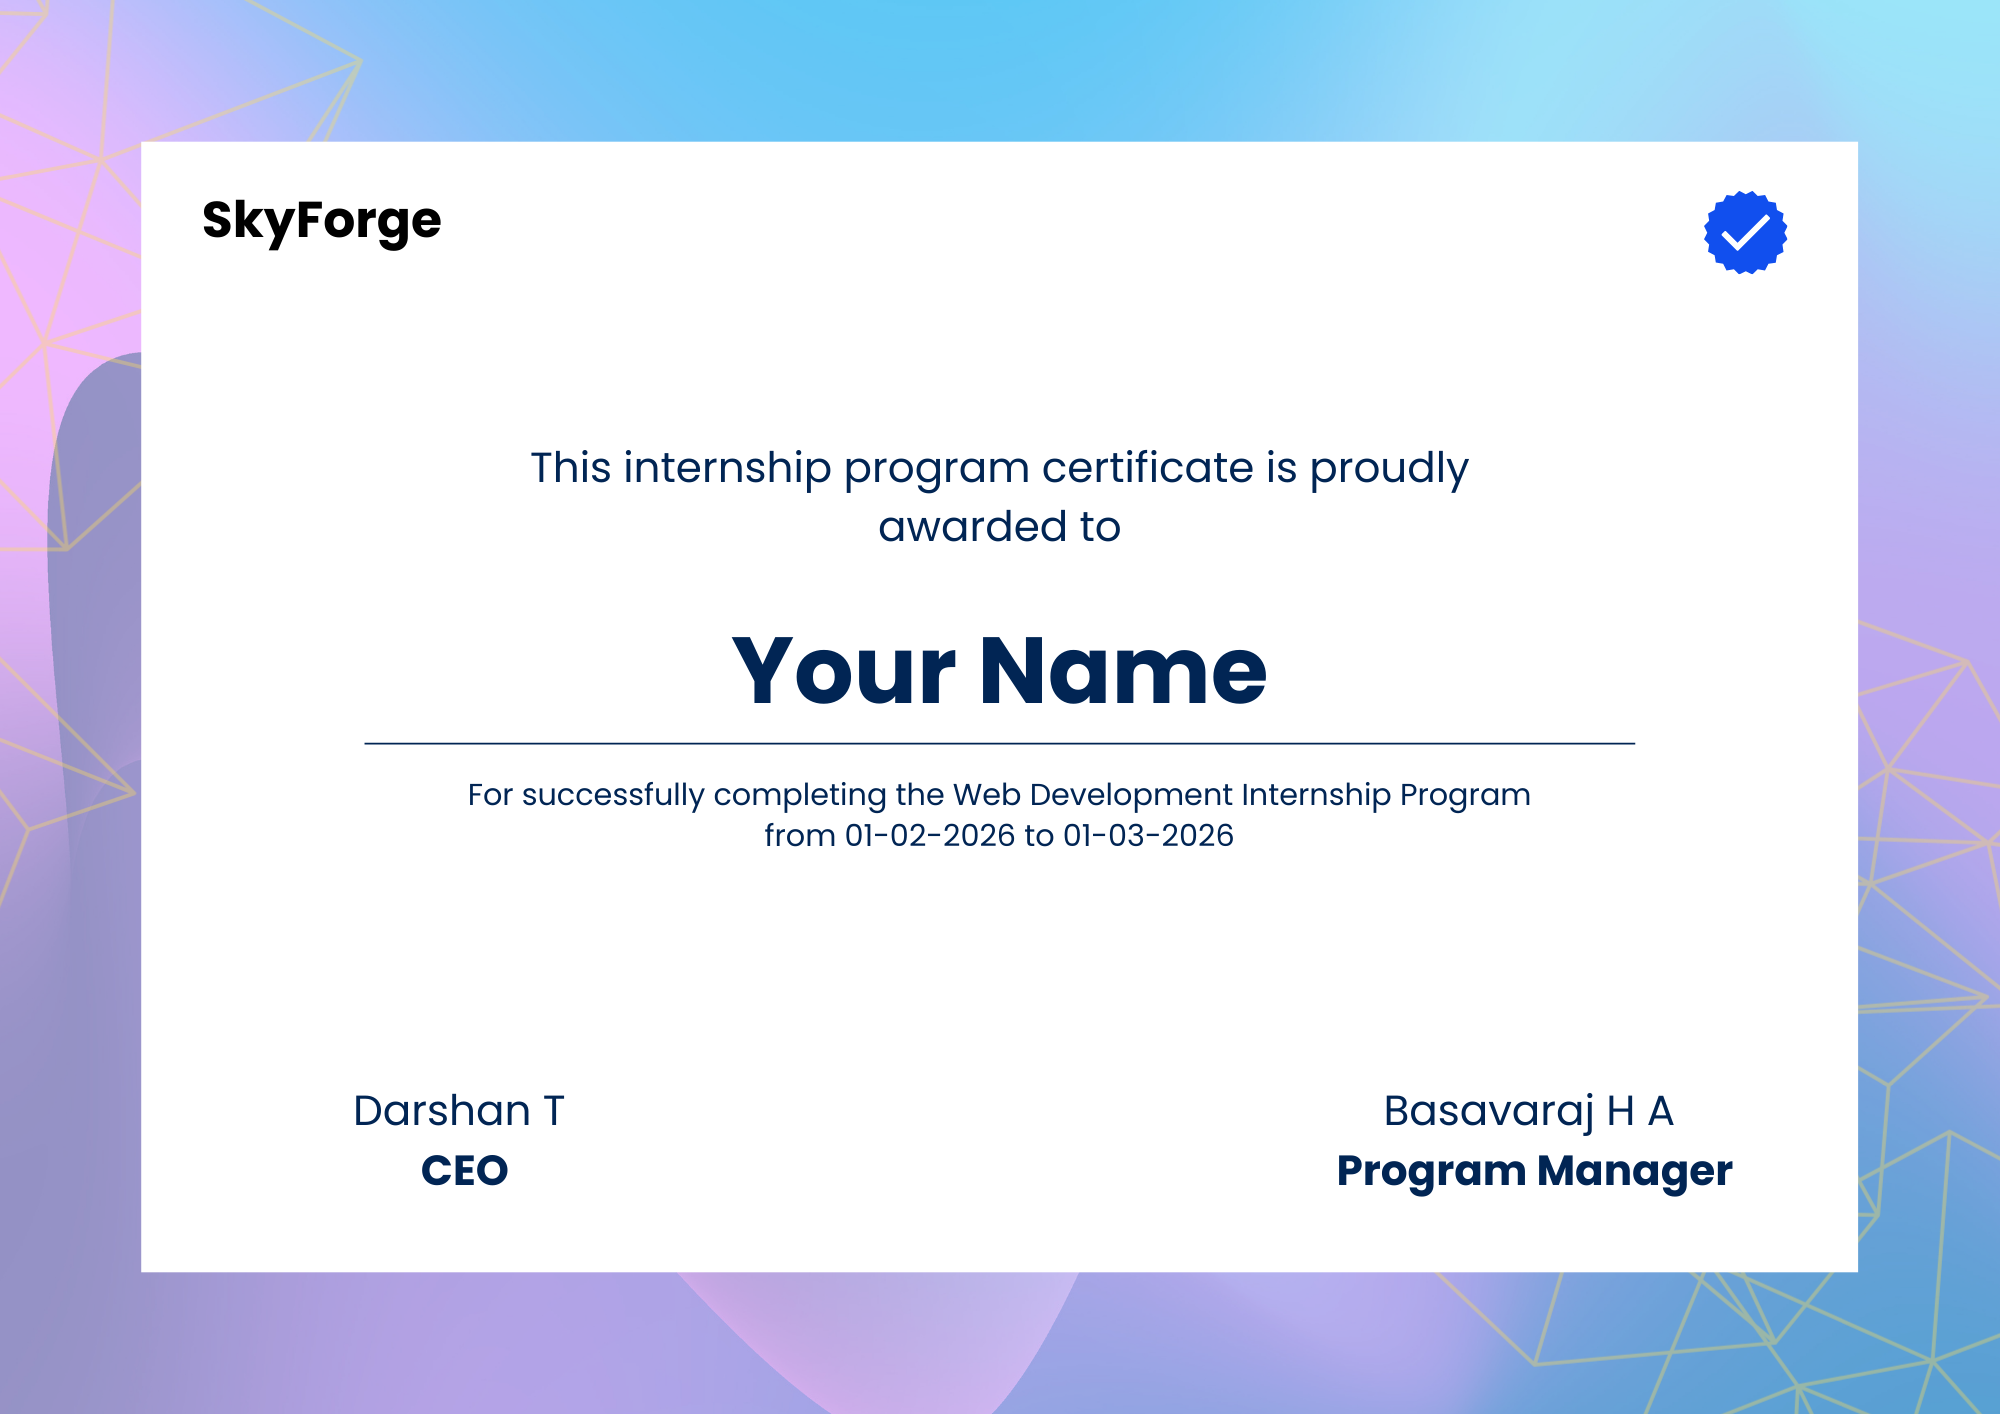
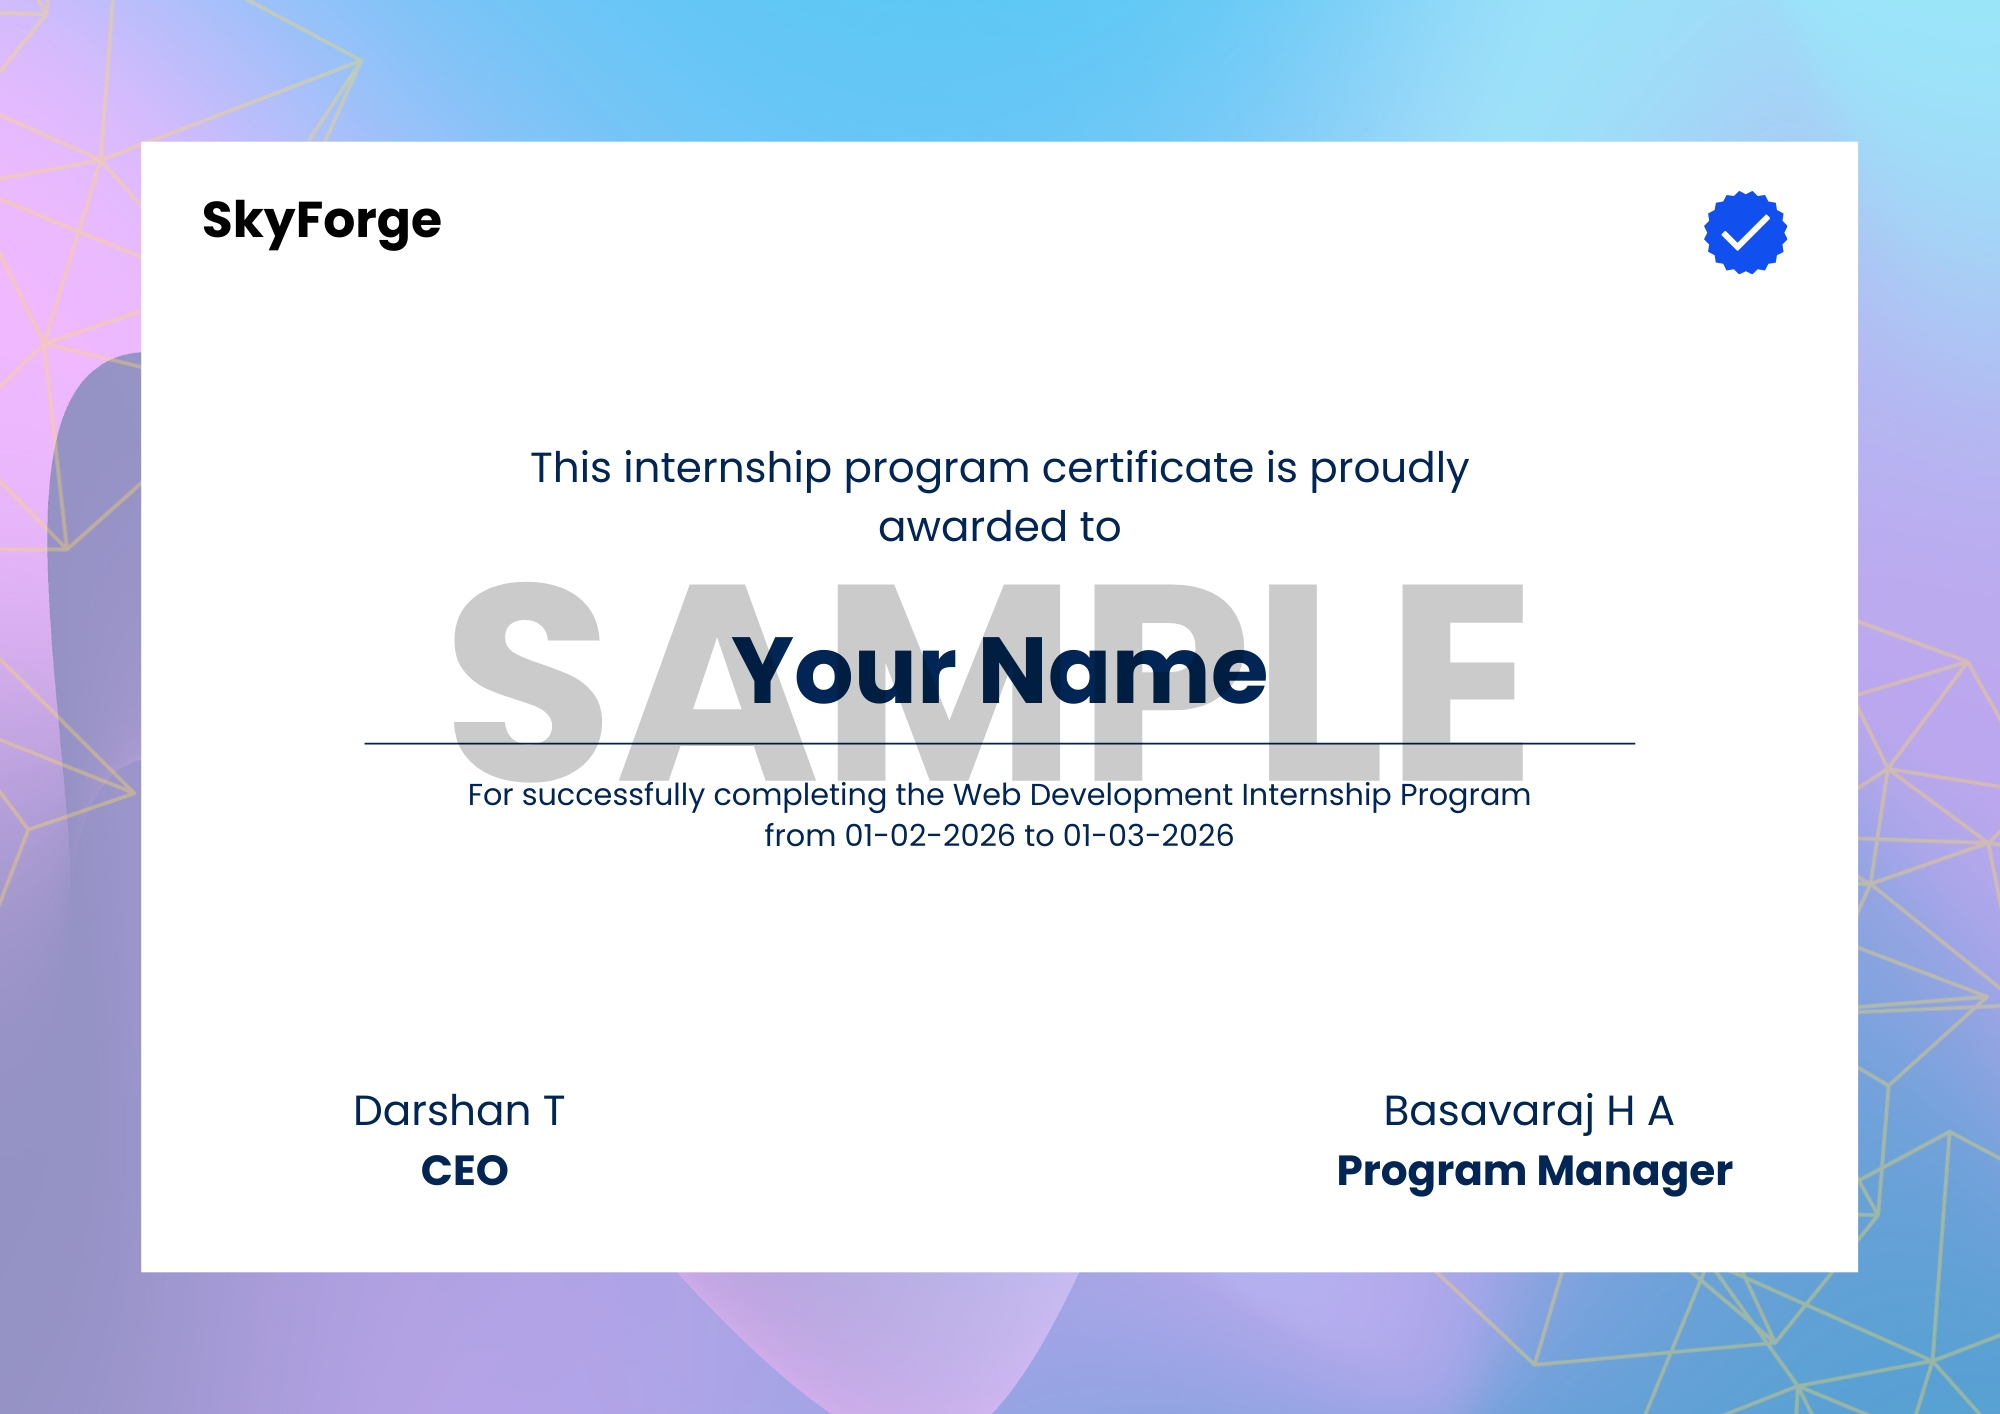
sample certificate added

Changed region(s): [[0.217, 0.4045, 0.775, 0.5601]]

diff --git a/client/src/pages/Contact.tsx b/client/src/pages/Contact.tsx
@@ -75,13 +75,9 @@ export default function Contact() {
                     </div>
                     
                     <div className="flex items-start gap-4">
-                      <div className="w-12 h-12 rounded-full bg-primary/20 flex items-center justify-center shrink-0">
-                        <MapPin className="w-6 h-6 text-primary" />
-                      </div>
+                      
                       <div>
-                        <h4 className="font-semibold text-foreground mb-1">Headquarters</h4>
-                        <p className="text-muted-foreground">123 Innovation Drive</p>
-                        <p className="text-muted-foreground">Tech Valley, CA 94043</p>
+                        
                       </div>
                     </div>
                   </div>

diff --git a/client/src/components/layout/Footer.tsx b/client/src/components/layout/Footer.tsx
@@ -58,8 +58,8 @@ export function Footer() {
                 <span>skyforgelearn@gmail.com</span>
               </li>
               <li className="flex items-start gap-3 text-muted-foreground">
-                <MapPin size={20} className="text-primary shrink-0 mt-0.5" />
-                <span>123 Innovation Drive<br/>Tech Valley, CA 94043</span>
+                
+                
               </li>
             </ul>
           </div>
